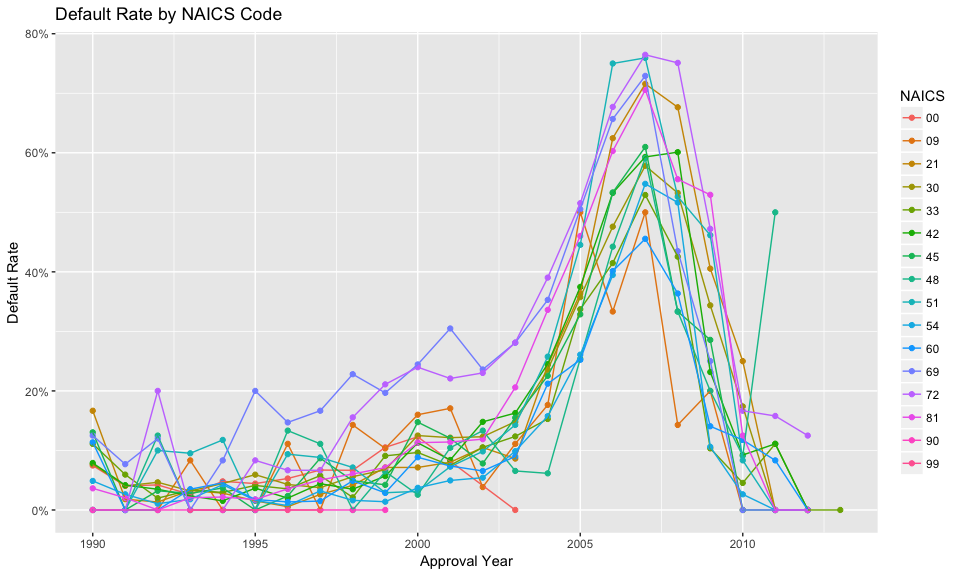
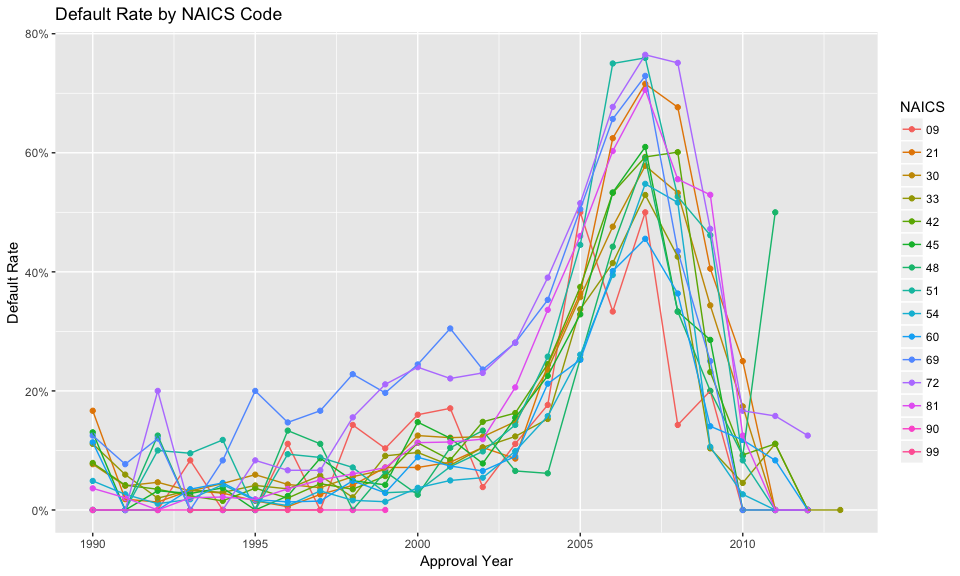
Added Default Rate by Loan Term and Divisibility plot

diff --git a/studies/data_summary.md b/studies/data_summary.md
@@ -16,6 +16,8 @@ Samuel Hansen
     -   [Default Rate vs. Business Type by Approval Year](#default-rate-vs.-business-type-by-approval-year)
 -   [Loan Term](#loan-term)
     -   [Load Term Histogram](#load-term-histogram)
+    -   [Default Rate by Loan Term](#default-rate-by-loan-term)
+    -   [Default Rate by Loan Term and Divisibility](#default-rate-by-loan-term-and-divisibility)
     -   [Default Rate vs. Load Term by Approval Year](#default-rate-vs.-load-term-by-approval-year)
 -   [Matching Lending State](#matching-lending-state)
     -   [Default Rate vs. Matching Lending State by Approval Year](#default-rate-vs.-matching-lending-state-by-approval-year)
@@ -63,6 +65,7 @@ Default Rate by NAICS Code
 
 ``` r
 df %>%
+  filter(NAICS != "00") %>%
   group_by(NAICS, year = year(ApprovalDate)) %>%
   summarise(default_rate = mean(LoanStatus == "CHGOFF")) %>%
   ggplot(mapping = aes(x = year, y = default_rate, color = NAICS)) +
@@ -209,6 +212,51 @@ df %>%
 
 ![](data_summary_files/figure-markdown_github/unnamed-chunk-10-1.png)
 
+Default Rate by Loan Term
+-------------------------
+
+``` r
+df %>% 
+  group_by(TermInMonths) %>%
+  summarise(count = n(),
+            frac_defaulted = mean(LoanStatus == "CHGOFF")) %>%
+  ggplot(mapping = aes(x = TermInMonths, y = frac_defaulted)) +
+  geom_point(mapping = aes(size = count)) +
+  geom_line() +
+  scale_y_continuous(labels = scales::percent) +
+  scale_x_continuous(breaks = seq(0,400,60)) +
+  labs(x = "Loan Term in Months", y = "Default Rate",
+       title = "Default Rate by Loan Term") +
+  scale_size_area(name = "# of Loans", labels = scales::comma)
+```
+
+![](data_summary_files/figure-markdown_github/unnamed-chunk-11-1.png)
+
+Default Rate by Loan Term and Divisibility
+------------------------------------------
+
+``` r
+df %>% 
+  group_by(TermInMonths) %>%
+  summarise(count = n(),
+            frac_defaulted = mean(LoanStatus == "CHGOFF")) %>% 
+  arrange(desc(frac_defaulted)) %>%
+  mutate(term_divisibility = ifelse(TermInMonths %% 2 == 0, "Even", "Odd")) %>%
+  ggplot(mapping = aes(x = TermInMonths, 
+                       y = frac_defaulted, 
+                       color = term_divisibility)) +
+  geom_point(mapping = aes(size = count)) +
+  geom_line() +
+  scale_y_continuous(labels = scales::percent) +
+  scale_x_continuous(breaks = seq(0,400,60)) +
+  scale_color_discrete(name = "Term Type") +
+  labs(x = "Loan Term in Months", y = "Default Rate",
+       title = "Default Rate by Loan Term") +
+  scale_size_area(name = "# of Loans", labels = scales::comma)
+```
+
+![](data_summary_files/figure-markdown_github/unnamed-chunk-12-1.png)
+
 Default Rate vs. Load Term by Approval Year
 -------------------------------------------
 
@@ -229,7 +277,7 @@ df %>%
        title = "Default Rate vs. Loan Term")
 ```
 
-![](data_summary_files/figure-markdown_github/unnamed-chunk-11-1.png)
+![](data_summary_files/figure-markdown_github/unnamed-chunk-13-1.png)
 
 The bin (120,168\] has an unusually high default rate; however, it has a low count. In fact, all term bins except for (216,264\] and (72,120\] have less than 100 observations. In turn, we may consider collapsing these infrequent bins, rather than treating `Term in Months` as a continuous feature.
 
@@ -253,7 +301,7 @@ df %>%
        title = "Default Rate by Lending State Match and Approval Year")
 ```
 
-![](data_summary_files/figure-markdown_github/unnamed-chunk-12-1.png)
+![](data_summary_files/figure-markdown_github/unnamed-chunk-14-1.png)
 
 Multi-Time Borrower
 ===================
@@ -275,4 +323,18 @@ df %>%
        title = "Default Rate by Multi-Time Borrower Status and Approval Year")
 ```
 
-![](data_summary_files/figure-markdown_github/unnamed-chunk-13-1.png)
+![](data_summary_files/figure-markdown_github/unnamed-chunk-15-1.png)
+
+``` r
+# Fraction of active loans in a given year
+# number of defaulted / number of loans active in a given year 
+
+# df2 <-
+#   read_delim("../data/SBA_Loan_data.txt", delim = "\t")
+# 
+# df2 <-
+#   df2 %>%
+#   filter(LoanStatus == "CHGOFF" | LoanStatus == "PIF",
+#          TermInMonths > 0,
+#          ) %>%
+```
